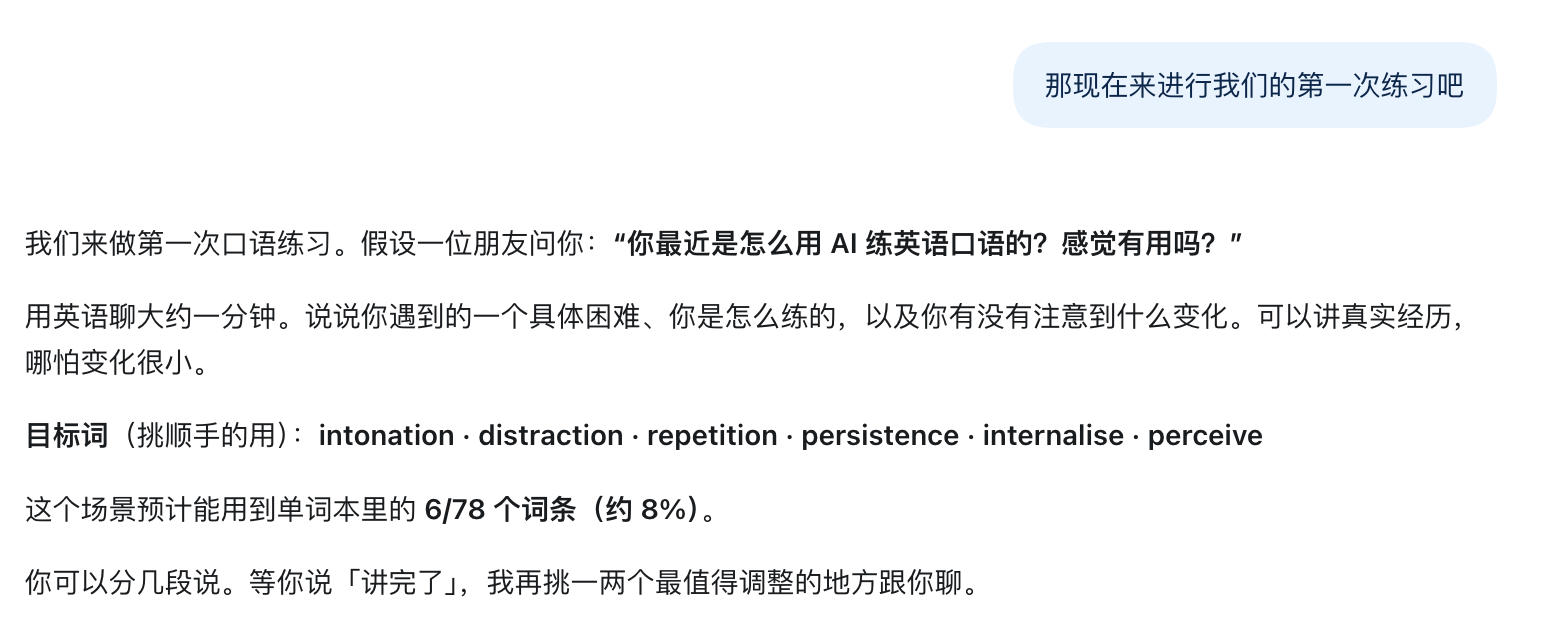
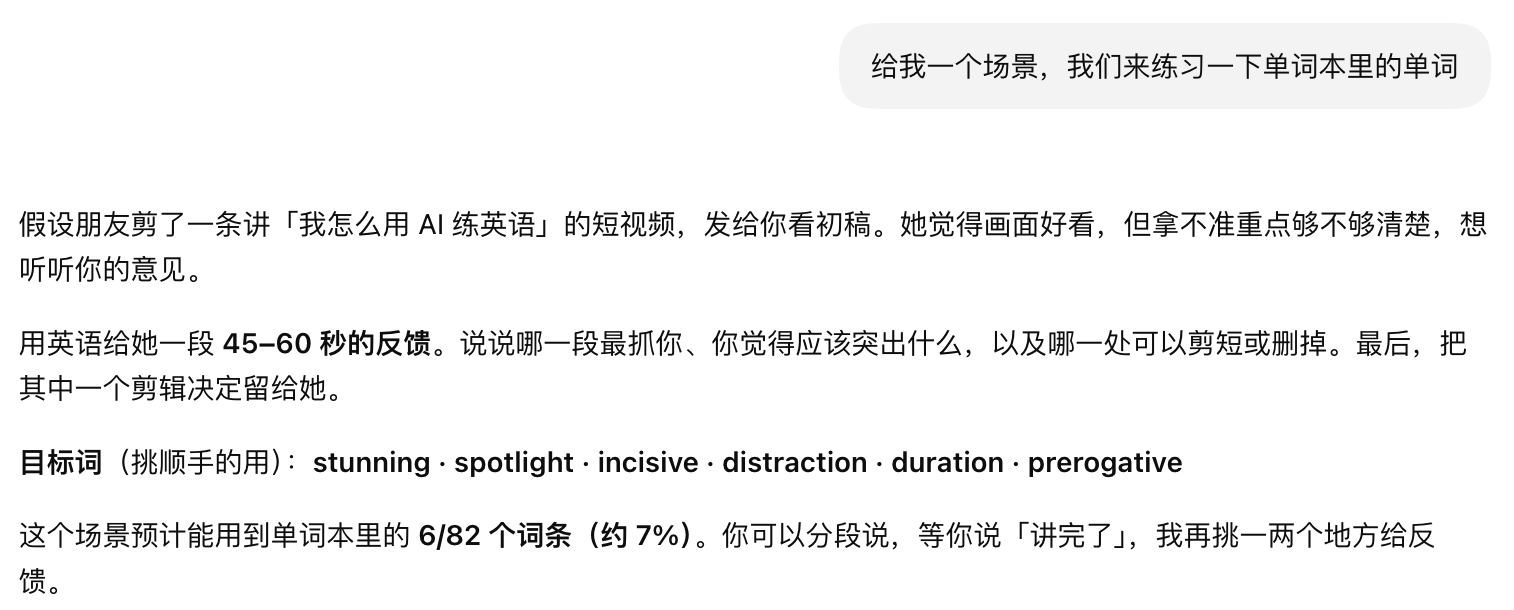
Frame README screenshots and restore both approved examples

Changed region(s): [[0.0, 0.3426, 0.9934, 0.9656], [0.5588, 0.0623, 0.9624, 0.1557]]

diff --git a/README.md b/README.md
@@ -18,25 +18,37 @@
 
 阅读时看到不认识的英文，直接发单词就行，比如 `intonation`。
 
-![直接发送 intonation，AI 给出中文解释和例句](examples/screenshots/word-lookup.png)
+| 截图 1 · 英译中 · 直接发送 intonation |
+| :--- |
+| ![直接发送 intonation，AI 给出中文解释和例句](examples/screenshots/word-lookup.png) |
 
 表达时想不起英语怎么说，也可以只发中文词或短语，AI 会先给解释和例句。
 
-![直接发送「一针见血的」，AI 给出 incisive、例句和常见搭配](examples/screenshots/chinese-to-english-lookup.png)
+| 截图 2 · 中译英 · 直接发送「一针见血的」 |
+| :--- |
+| ![直接发送「一针见血的」，AI 给出 incisive、例句和常见搭配](examples/screenshots/chinese-to-english-lookup.png) |
 
 你说「同步到单词本」后，词条才会按词性保存到 Obsidian。
 
-![主动同步后，AI 列出写入 Obsidian 的词条和辨析笔记](examples/screenshots/obsidian-sync.png)
+| 截图 3 · 手动同步 · 查看写入结果 |
+| :--- |
+| ![主动同步后，AI 列出写入 Obsidian 的词条和辨析笔记](examples/screenshots/obsidian-sync.png) |
 
 ### 2. 汉译英拿不准语境时，AI 帮你区分近义词的用法
 
 比如你直接发「古板的守旧的」，AI 会区分 *old-fashioned*（观念老派）、*conservative*（在这里指守旧、不愿改变）和 *rigid*（死板、不灵活），再问你更想表达哪一种。
 
-![AI 区分 old-fashioned、conservative 和 rigid，并询问更想表达哪一种](examples/screenshots/chinese-to-english-options.png)
+| 截图 4 · 选词 · 比较「古板／守旧」的几种说法 |
+| :--- |
+| ![AI 区分 old-fashioned、conservative 和 rigid，并询问更想表达哪一种](examples/screenshots/chinese-to-english-options.png) |
 
 你可以把选中的表达单独收为词条。说「同步到单词本」后，实际讨论过的近义表达会一起保存到 Obsidian 的「近义词」文件夹，方便下次遇到类似语境时再比较。
 
 比如，最后选了 *rigid*，它会单独保存为词条。另外两种说法会留在同一份辨析笔记里。
+
+| 截图 5 · Obsidian · 近义词辨析笔记 |
+| :--- |
+| ![Obsidian 里「古板、守旧与死板」的近义词辨析](examples/screenshots/obsidian-synonyms.png) |
 
 ### 3. 根据单词本生成口语练习场景
 
@@ -44,9 +56,15 @@
 
 比如，你可以练习用英语给朋友的短视频提剪辑建议。
 
+| 截图 6 · 口语练习 · 场景、目标词和预计覆盖 |
+| :--- |
+| ![点评短视频的口语任务、英文目标词和预计用到的词条](examples/screenshots/scenario-practice.png) |
+
 你可以分几段说。等你说「**讲完了**」，AI 再挑一两个地方点评，然后请你用自己的话重说。
 
-![说完后的用词反馈，以及用自己的话重说的提示](examples/screenshots/scenario-feedback.png)
+| 截图 7 · 练习反馈 · 说完后再点评 |
+| :--- |
+| ![说完后的用词反馈，以及用自己的话重说的提示](examples/screenshots/scenario-feedback.png) |
 
 平时读到或听到一个好用的词，也可以顺手用它造一两个短句，或者用简单英语复述刚听懂的内容。影子跟读、练常用场景的小脚本、和语伴聊几句，也都可以搭配着练。
 
@@ -56,7 +74,9 @@
 
 反复查到的词可以优先放进下一次练习。比如，下次直接说「用我这周查得最多的几个词，给我一个能自然用上它们的场景。」
 
-![过去一周 utility 查了两次，用户把它指定为下一次口语练习的重点](examples/screenshots/repeat-lookup.png)
+| 截图 8 · 复习 · 把反复查询的词用进下次练习 |
+| :--- |
+| ![过去一周 utility 查了两次，用户把它指定为下一次口语练习的重点](examples/screenshots/repeat-lookup.png) |
 
 ## 安装与首次配置
 
